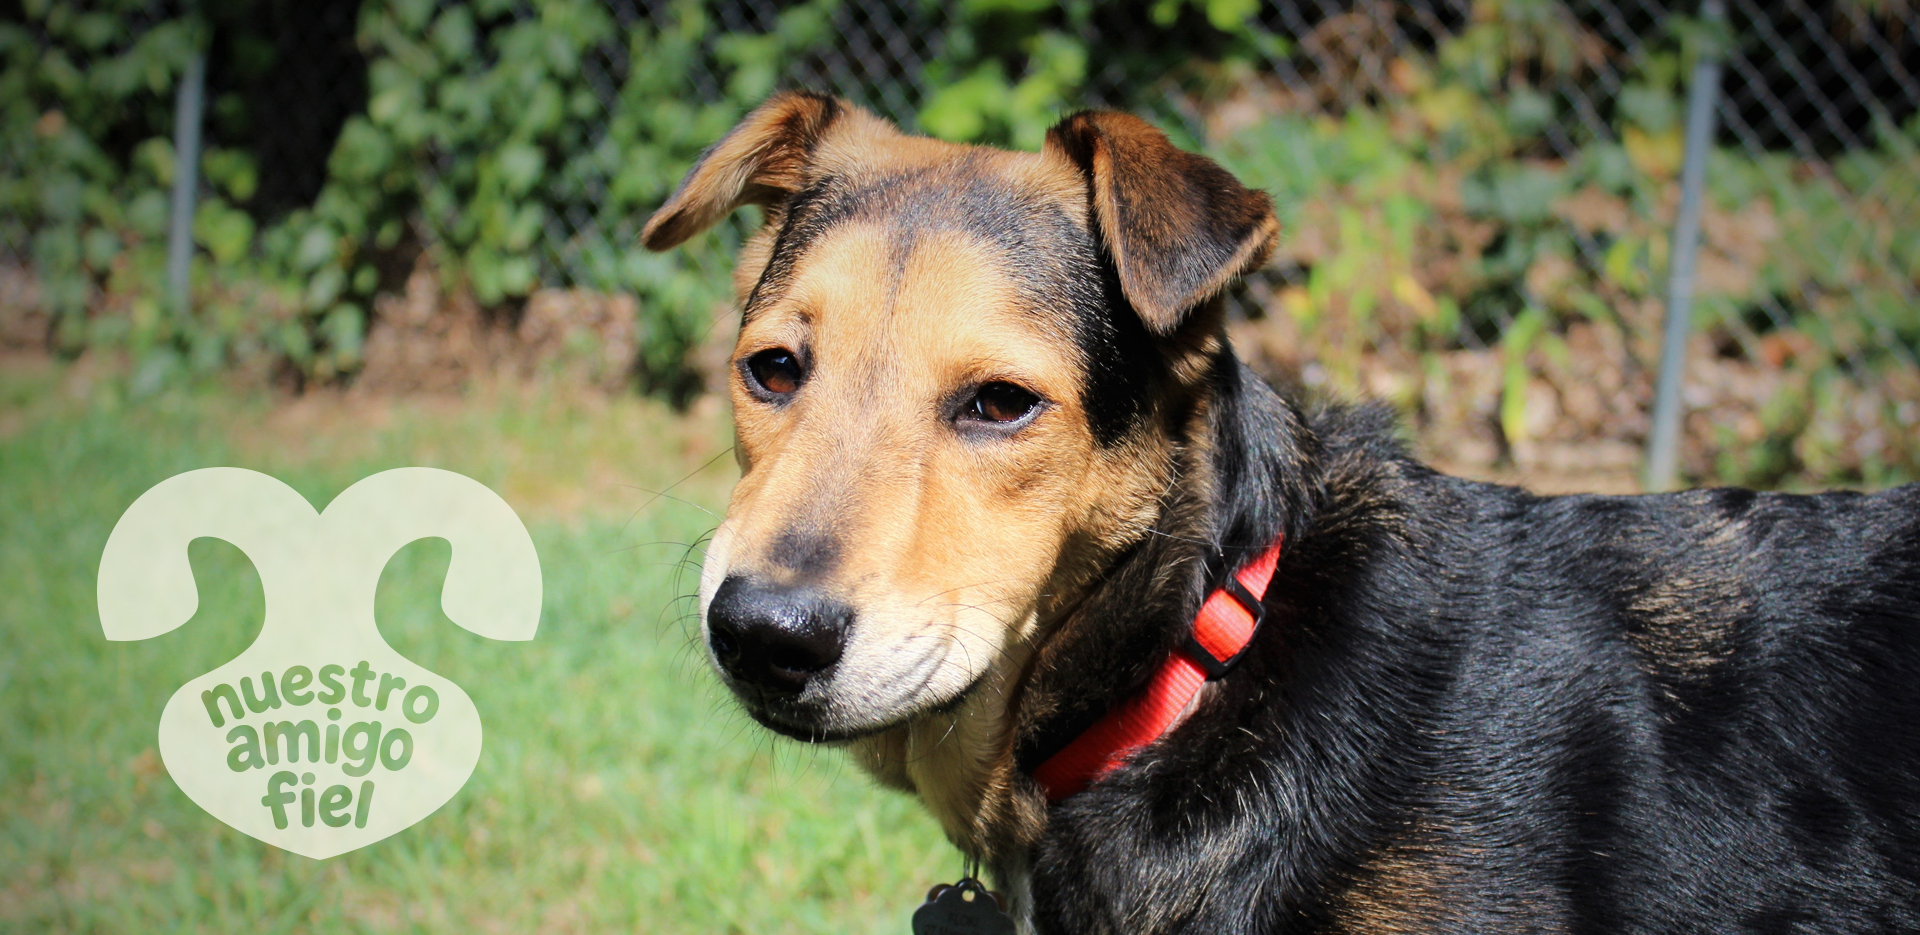
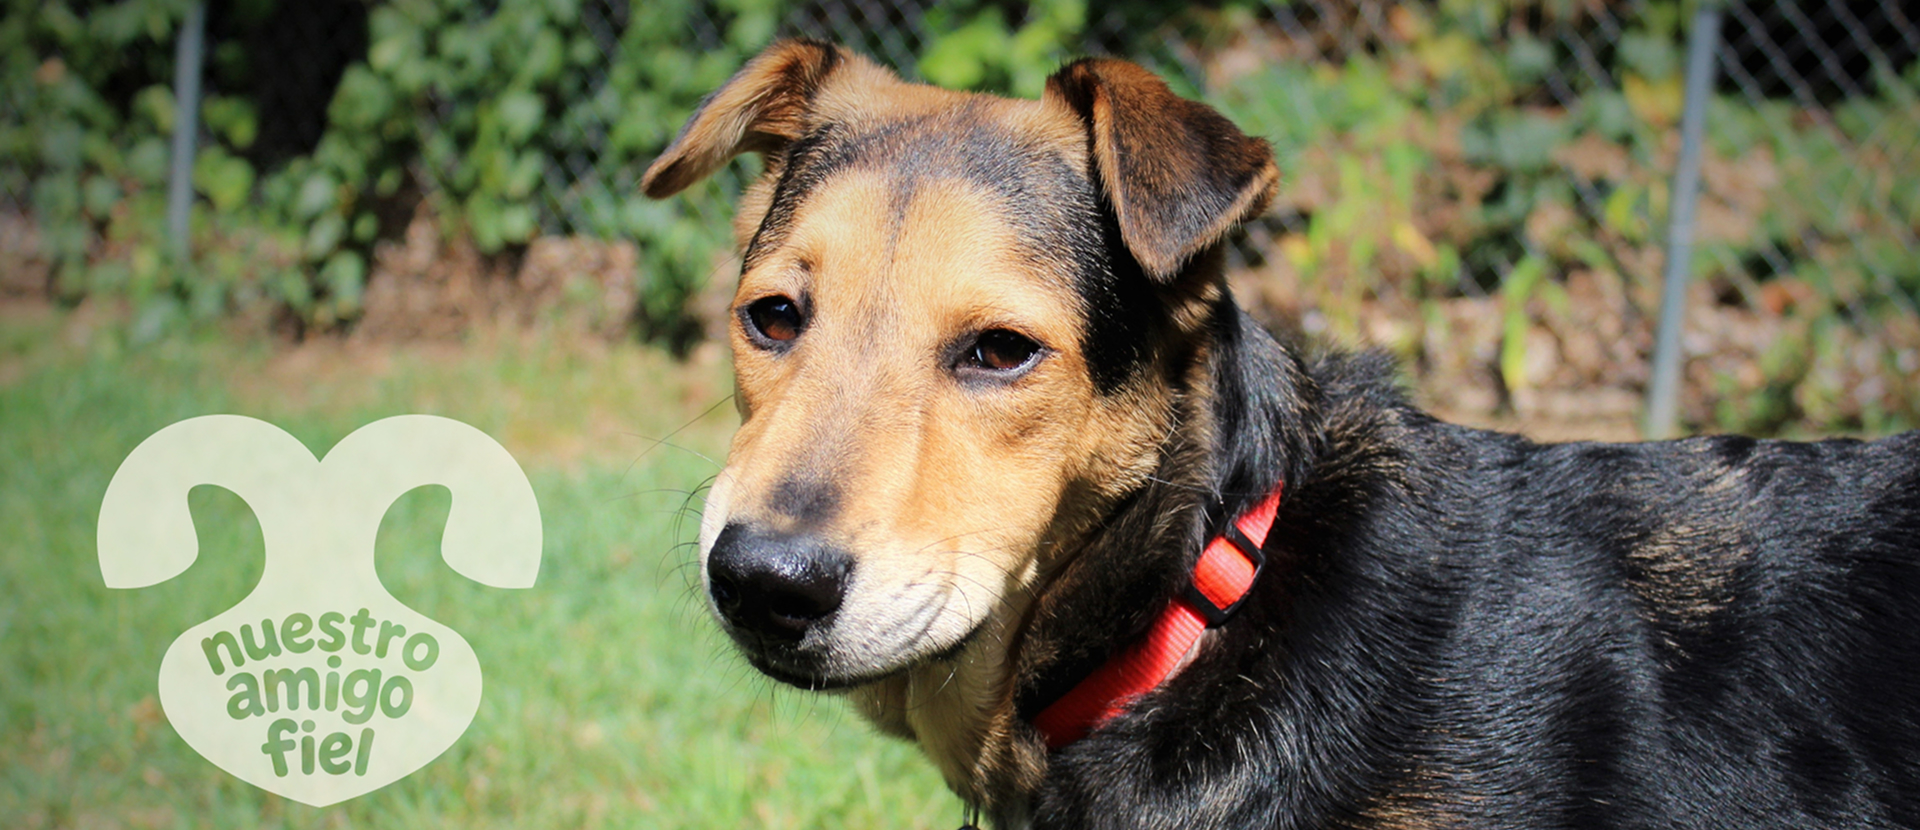
ultimos ajustes

diff --git a/comoayudar.html b/comoayudar.html
@@ -27,7 +27,7 @@
         </div>
     </header>
 
-    <main>
+    <main id="comoayudar-main">
         <section class="fijo">
             <ul class="fijo-ul">
                 <li>
@@ -48,45 +48,53 @@
                 </li>
             </ul>
         </section>
-        <div id="patita"><img src="imagenes/iconos/patita-icono.png" alt="icono de patita" width="72px" height="66px">
-        </div>
-        <section>
-            <h1>¿Cómo ayudar?</h1>
-            <article id="voluntario">
-                <h2>Siendo voluntario</h2>
-                <p>Ser voluntario es ser parte de una comunidad que cree en las segundas oportunidades, en el amor
-                    sin condiciones y en el poder de una caricia a tiempo. Detrás de cada tarea hay personas que
-                    dedican su tiempo y amor a nuestros amigos. Ser voluntario no solo transforma vidas, también
-                    crea experiencias inolvidables y un impacto real.</p>
-                <div class="botones">
-                    <a href="#popup-tareas"><img src="imagenes/iconos/boton-pata.png" alt="boton del popup"></a>
+        <section id="como">
+            <div id="patita"><img src="imagenes/iconos/patita-icono.png" alt="icono de patita" width="72px"
+                    height="66px">
+            </div>
+            <div id="div-voluntario1">
+                <h1>¿Cómo ayudar?</h1>
+                <div id="div-voluntario2">
+                    <article id="voluntario">
+                        <h2>Siendo voluntario</h2>
+                        <p>Ser voluntario es ser parte de una comunidad que cree en las segundas oportunidades, en el
+                            amor
+                            sin condiciones y en el poder de una caricia a tiempo. Detrás de cada tarea hay personas que
+                            dedican su tiempo y amor a nuestros amigos. Ser voluntario no solo transforma vidas, también
+                            crea experiencias inolvidables y un impacto real.</p>
+                        <div class="botones">
+                            <a href="#popup-tareas"><img src="imagenes/iconos/boton-pata.png" alt="boton del popup"></a>
 
-                    <div id="popup-tareas" class="modal">
-                        <div class="contenido">
-                            <h3>¿Qué tareas haría?</h3>
-                            <h4>Hay muchas formas de colaborar según tus intereses y habilidades.<br>
-                                Podés postularte hoy mismo para:</h4>
-                            <p>Trabajar directo con nuestros amigos</p>
-                            <p>Ayudar en las tareas administrativas</p>
-                            <p>Aportar al mantenimiento del refugio</p>
-                            <a href="#voluntario" class="cerrar">X</a>
-                        </div>
-                    </div>
+                            <div id="popup-tareas" class="modal">
+                                <div class="contenido">
+                                    <h3>¿Qué tareas haría?</h3>
+                                    <h4>Hay muchas formas de colaborar según tus intereses y habilidades.<br>
+                                        Podés postularte hoy mismo para:</h4>
+                                    <p>Trabajar directo con nuestros amigos</p>
+                                    <p>Ayudar en las tareas administrativas</p>
+                                    <p>Aportar al mantenimiento del refugio</p>
+                                    <a href="#voluntario" class="cerrar">X</a>
+                                </div>
+                            </div>
 
-                    <div>
-                        <a href="#popup-voluntario" class="boton">Quiero ser voluntario</a>
+                            <div>
+                                <a href="#popup-voluntario" class="boton">Quiero ser voluntario</a>
 
-                        <div id="popup-voluntario" class="modal">
-                            <div class="contenido">
-                                <h3>¡Listo! Ya te enviamos la información</h3>
-                                <a href="#voluntario" class="cerrar">X</a>
+                                <div id="popup-voluntario" class="modal">
+                                    <div class="contenido">
+                                        <h3>¡Listo! Ya te enviamos la información</h3>
+                                        <a href="#voluntario" class="cerrar">X</a>
+                                    </div>
+                                </div>
                             </div>
                         </div>
-                    </div>
+                        <h3>¡Con tu ayuda, ellos tienen una nueva oportunidad!</h3>
+                    </article>
+                    <img class="bordefotos" src="imagenes/img/comoayudar_1.jpg" alt="voluntario" width="781px"
+                        height="373px">
                 </div>
-                <h3>¡Con tu ayuda, ellos tienen una nueva oportunidad!</h3>
-            </article>
-            <img class="bordefotos" src="imagenes/img/comoayudar_1.jpg" alt="voluntario" width="781px" height="373px">
+            </div>
+
         </section>
         <section>
             <article>

diff --git a/estilosg.css b/estilosg.css
@@ -8,6 +8,10 @@
     --azul: #172C43;
 }
 
+html {
+    height: 100%;
+}
+
 * {
     font-family: "Instrument Sans", sans-serif;
     font-size: 16px;
@@ -43,6 +47,9 @@ nav {
 body {
     background-color: var(--crema);
     min-height: 100vh;
+    height: 100%;
+    display: flex;
+    flex-direction: column;
 }
 
 #main-nosotros,
@@ -52,6 +59,21 @@ body {
 
 .bordefotos {
     border-radius: 50px;
+}
+
+.fijo {
+    background-color: var(--celeste);
+    position: fixed;
+    top: 45%;
+    left: 0%;
+    padding: 20px 25px 20px 10px;
+    border-radius: 0 50px 50px 0;
+}
+
+.fijo-ul {
+    display: flex;
+    flex-direction: column;
+    gap: 10px;
 }
 
 
@@ -189,6 +211,7 @@ footer a {
     display: block;
 }
 
+
 /*tipografías*/
 
 h1,
@@ -226,24 +249,31 @@ p {
 
 /*INDEX HTML*/
 
+#body-index {
+    display: flex;
+    flex-direction: column;
+}
+
 #mainindex {
     margin: 0;
     background-color: var(--salmon);
+    flex: 1;
+    overflow: hidden;
 }
 
-.fijo{
-    background-color: var(--celeste);
-    position: fixed;
-    top: 45%;
-    left:0%;
-    padding: 20px 25px 20px 10px;
-    border-radius: 0 50px 50px 0;
+#galeria-index {
+    height: 100%;
 }
 
-.fijo-ul{
-    display: flex;
-    flex-direction: column;
-    gap: 10px;
+.swiper-wrapper,
+.swiper-slide {
+    height: 100%;
+}
+
+.swiper-slide img {
+    width: 100%;
+    height: 100%;
+    object-fit: cover;
 }
 
 /*NOSOTROS HTML*/
@@ -264,7 +294,7 @@ p {
 }
 
 #patitanosotros {
-padding: 0 10px 0 0;
+    padding: 0 10px 0 0;
 }
 
 .trama {
@@ -385,7 +415,8 @@ nav a:hover {
 }
 
 .boton {
-    width: 420px;
+    max-width: 420px;
+    width: 100%;
     font-size: 26px;
     display: flex;
     justify-content: center;
@@ -442,6 +473,46 @@ nav a:hover {
     flex-direction: row;
     gap: 48px;
     justify-content: center;
+}
+
+.adoptar,
+.agranda,
+.historias {
+    flex-wrap: wrap;
+}
+
+/*COMO AYUDAR HTML*/
+
+#comoayudar-main {
+    display: flex;
+    flex-direction: column;
+    gap: 80px;
+    align-items: center;
+}
+
+#como {
+    display: flex;
+    gap: 48px;
+    justify-content: center;
+    margin: 60px 0 0 0;
+}
+
+#div-voluntario1 {
+    display: flex;
+    flex-direction: column;
+    gap: 60px;
+}
+
+#div-voluntario2 {
+    display: flex;
+    flex-wrap: wrap;
+    gap: 48px;
+}
+
+#voluntario {
+    display: flex;
+    flex-direction: column;
+    gap: 25px;
 }
 
 /*DENUNCIA HTML*/
@@ -570,15 +641,15 @@ form {
         gap: 40px;
     }
 
-h1 {
-    font-size: 50px;
-}
+    h1 {
+        font-size: 50px;
+    }
 
-h2 {
+    h2 {
         font-size: 38px;
     }
 
-.contenedor {
+    .contenedor {
         padding: 20px 15px;
     }
 
@@ -589,9 +660,9 @@ h2 {
 
     /*nosotros.html_media500px*/
 
-#mision-equipo-nosotros article {
-    gap: 40px;
-}
+    #mision-equipo-nosotros article {
+        gap: 40px;
+    }
 
     #patitanosotros {
         display: none;
@@ -611,7 +682,7 @@ h2 {
 
     /*denuncia.html_media500px*/
 
-    
+
 
     #contacto-index {
         gap: 60px;
@@ -665,6 +736,61 @@ h2 {
 
     .fotosdenuncia {
         width: 100%;
+    }
+
+    .denunciaimg {
+        padding: 20px 15px;
+    }
+
+    p {
+        max-width: 100%;
+    }
+
+    textarea,
+    input {
+        width: 100%;
+        box-sizing: border-box;
+    }
+
+    form {
+        width: 100%;
+    }
+
+    video {
+        max-width: 400px;
+    }
+
+    .bordefotos {
+        width: 100%;
+        height: auto;
+    }
+
+    #mision-equipo-nosotros {
+        gap: 50px;
+    }
+
+    #patitaadopta {
+        display: none;
+    }
+
+    .adoptar,
+    .agranda,
+    .historias {
+        margin: 0 35px 25px 40px;
+    }
+
+    .texto {
+        margin: 30px 0 0 0;
+
+        h1 {
+            max-width: 300px;
+        }
+    }
+
+    #botonformulario {
+        font-size: 20px;
+        display: flex;
+        align-items: center;
     }
 
     /*trabajos.html_media500px*/

diff --git a/adopta.html b/adopta.html
@@ -97,7 +97,7 @@
                         </div>
                     </div>
 
-                    <a href="https://docs.google.com/forms/d/e/1FAIpQLSdqHaLmGeSE_5Uf8X9bNGcTG6EW2S5tJBxpVrBBlA_3OfiyhA/viewform?usp=publish-editor"
+                    <a id="botonformulario" href="https://docs.google.com/forms/d/e/1FAIpQLSdqHaLmGeSE_5Uf8X9bNGcTG6EW2S5tJBxpVrBBlA_3OfiyhA/viewform?usp=publish-editor"
                         class="boton" target="_blank">Formulario de adopción</a>
                 </div>
 

diff --git a/index.html b/index.html
@@ -13,7 +13,7 @@
     </style>
 </head>
 
-<body>
+<body id="body-index">
     <header>
         <div class="contenedor">
             <a href="index.html" target="_self">
